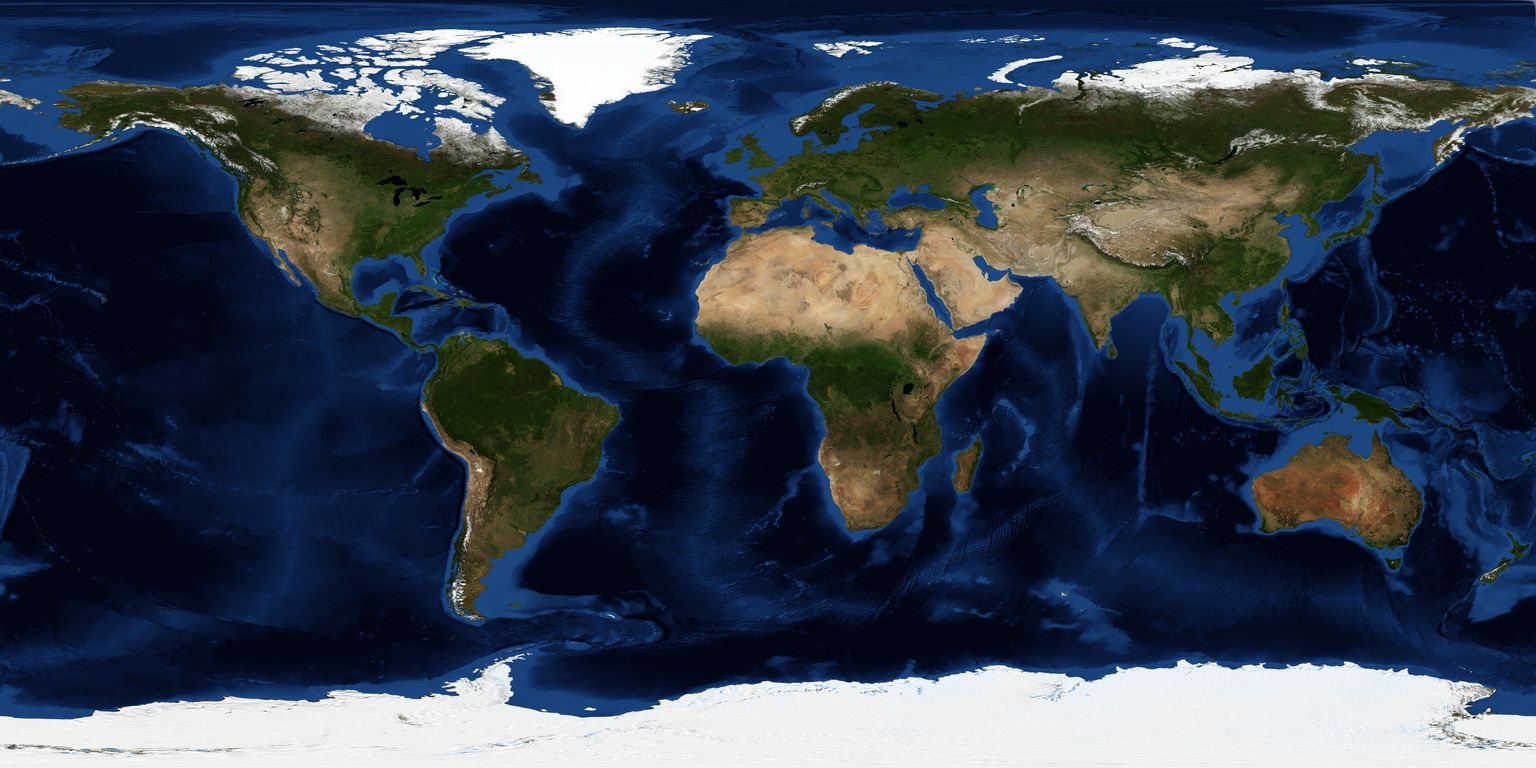
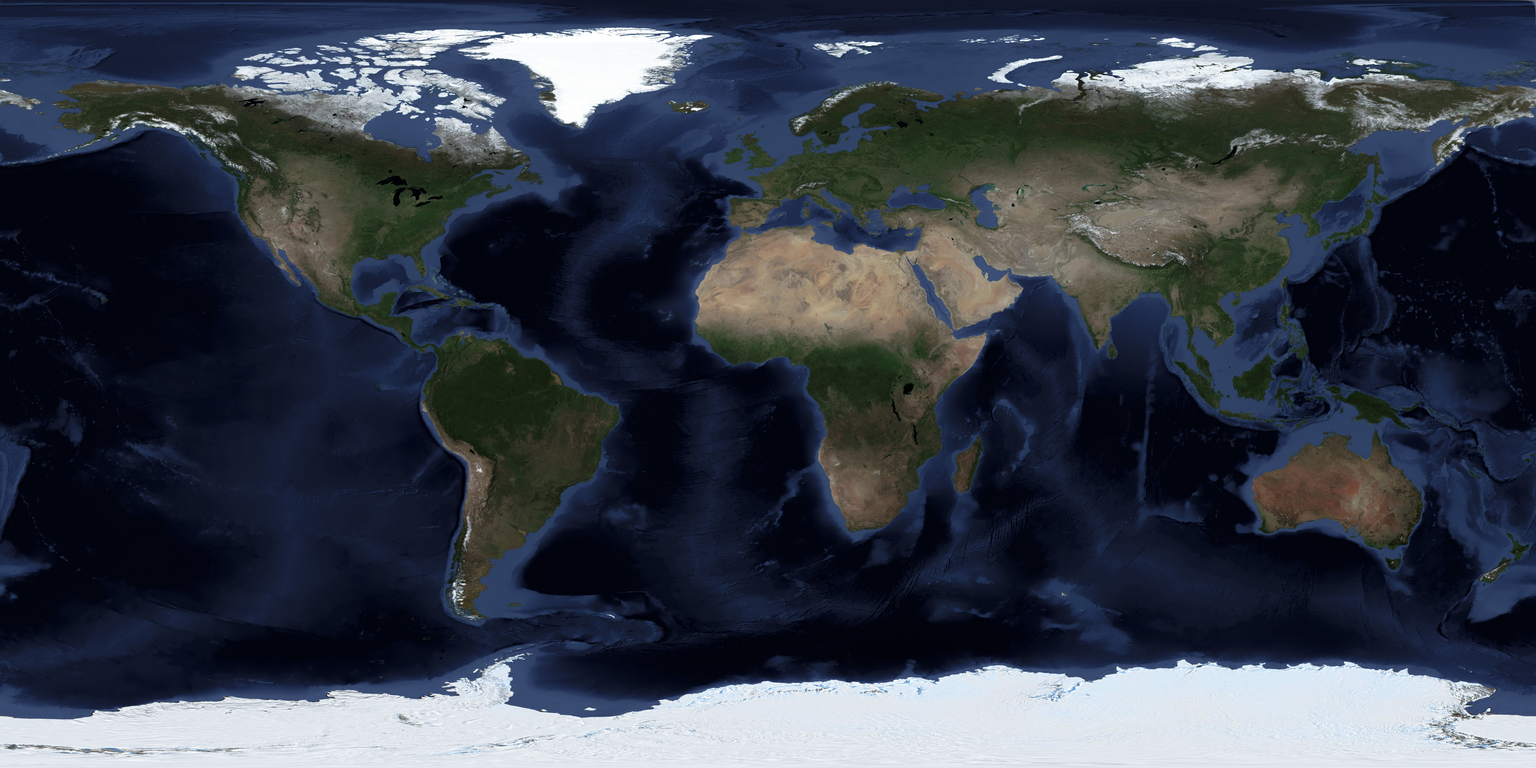
✨Add new texture and orbit control

diff --git a/src/scripts/Webgl.js b/src/scripts/Webgl.js
@@ -1,6 +1,7 @@
 import * as THREE from 'three'
 import earthSource from '../../static/images/earth.jpg'
 import earthNormalMapSource from '../../static/images/earth-normal-map.png'
+import { OrbitControls } from 'three/examples/jsm/controls/OrbitControls.js'
 
 export default class Webgl {
     constructor() {
@@ -122,6 +123,12 @@ export default class Webgl {
         canvasPosition.appendChild(renderer.domElement)
 
         /**
+         * Orbit Control
+         */
+        const cameraControls = new OrbitControls(camera, renderer.domElement)
+        cameraControls.enableDamping = true
+        
+        /**
          * Resize
          */
         window.addEventListener('resize', () => 
@@ -140,6 +147,8 @@ export default class Webgl {
          */
         const loop = () =>
         {
+
+            cameraControls.update()
 
             sphere.rotation.y += 0.0002
             satellites.rotation.y += 0.0003

diff --git a/src/style/parts/filters.scss b/src/style/parts/filters.scss
@@ -1,6 +1,6 @@
 .filters {
     width: 276px;
-    
+    pointer-events: all; 
     
     &.active-filter {
         display: block;

diff --git a/src/style/main.scss b/src/style/main.scss
@@ -66,6 +66,7 @@ main {
     height: 92%;
     width: 93%;
     position: relative;
+    pointer-events:none; 
 }
 
 .main-title {
